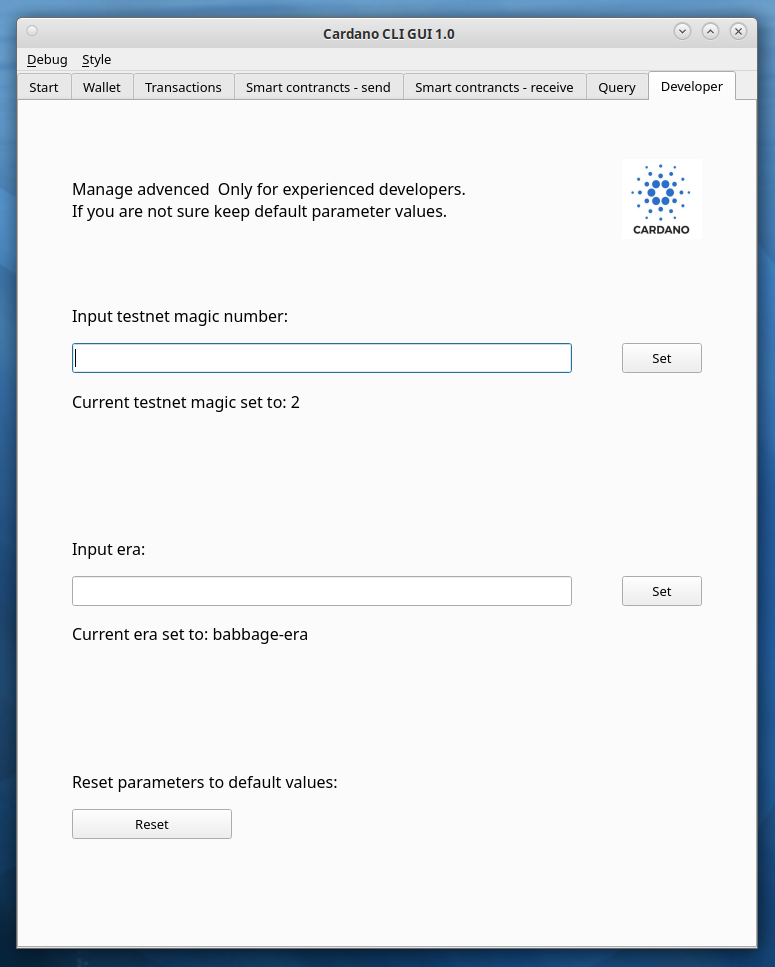
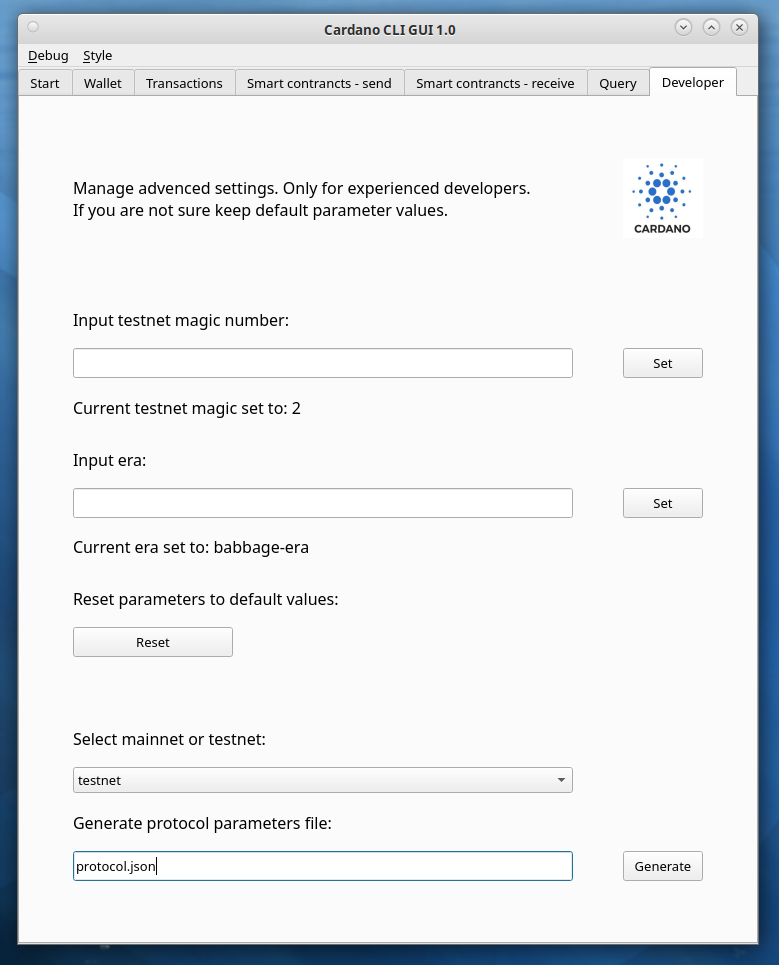
Updating developer py file and image.

diff --git a/py-files/developer.py b/py-files/developer.py
@@ -1,19 +1,26 @@
 
 
+import os
 import settings
+import subprocess
+import traceback
+import common_functions
 
 from PyQt5.QtGui import QPixmap
 from PyQt5.QtWidgets import (QPushButton, QLabel, QLineEdit, 
-                             QWidget, QGridLayout, QMessageBox)
+                             QWidget, QGridLayout, QMessageBox,
+                             QComboBox)
 
 # Widgets and functions for the developer tab
 class Developer(QWidget):
     def __init__(self):
         super().__init__()
 
+        self.net = ""
+
         # Header text 
-        label_1_0 = QLabel("Manage advenced settings. Only for experienced developers.\n" + \
-                           "If you are not sure keep default parameter values.")
+        self.label_1_0 = QLabel("Manage advenced settings. Only for experienced developers.\n" + \
+                                "If you are not sure keep default parameter values.")
 
         # Cardano picture
         picture_1_1 = QLabel("")
@@ -22,30 +29,42 @@ class Developer(QWidget):
         picture_1_1.setScaledContents(True)
 
         # Widgets for testnet magic section 
-        label_3_0 = QLabel("Input testnet magic number:")
+        self.label_3_0 = QLabel("Input testnet magic number:")
         self.input_4_0 = QLineEdit()
-        button_4_1 = QPushButton("Set")
+        self.button_4_1 = QPushButton("Set")
         self.label_5_0 = QLabel("Current testnet magic set to: " + settings.testnet_magic)
 
         # Widgets for era section
-        label_8_0 = QLabel("Input era:")
-        self.input_9_0 = QLineEdit()
-        button_9_1 = QPushButton("Set")
-        self.label_10_0 = QLabel("Current era set to: " + settings.current_era)
+        self.label_6_0 = QLabel("Input era:")
+        self.input_7_0 = QLineEdit()
+        self.button_7_1 = QPushButton("Set")
+        self.label_8_0 = QLabel("Current era set to: " + settings.current_era)
 
         # Widgets for default value section
-        label_13_0 = QLabel("Reset parameters to default values:")
-        button_14_0 = QPushButton("Reset")
+        self.label_9_0 = QLabel("Reset parameters to default values:")
+        self.button_10_0 = QPushButton("Reset")
 
-        # Button functions
-        button_4_1.clicked.connect(self.set_magic)
-        button_9_1.clicked.connect(self.set_era)
-        button_14_0.clicked.connect(self.reset_values)
+        # Widgets for generating protocol parameters file
+        self.label_12_0 = QLabel("Select mainnet or testnet:")
+        self.comboBox_13_0 = QComboBox()
+        self.label_14_0 = QLabel("Generate protocol parameters file:")
+        self.input_15_0 = QLineEdit("")
+        self.button_15_1 = QPushButton("Generate")
+
+        # Button and combobox functions
+        self.button_4_1.clicked.connect(self.set_magic)
+        self.button_7_1.clicked.connect(self.set_era)
+        self.button_10_0.clicked.connect(self.reset_values)
+        self.button_15_1.clicked.connect(self.generate_protocol_params_file)
+
+        self.comboBox_13_0.addItems(["", "mainnet", "testnet"])
+        self.comboBox_13_0.currentTextChanged.connect(self.set_net)
 
         # Set label fonts 
-        labels = [label_1_0, label_3_0, 
-                  self.label_5_0, label_8_0, 
-                  self.label_10_0, label_13_0]
+        labels = [self.label_1_0, self.label_3_0, 
+                  self.label_5_0, self.label_6_0, 
+                  self.label_8_0, self.label_9_0,
+                  self.label_12_0, self.label_14_0]
         for label in labels:
             font = label.font()
             font.setPointSize(12)
@@ -53,12 +72,14 @@ class Developer(QWidget):
 
         # Set lineEdit size 
         self.input_4_0.setFixedSize(500,30)
-        self.input_9_0.setFixedSize(500,30)
+        self.input_7_0.setFixedSize(500,30)
+        self.input_15_0.setFixedSize(500,30)
 
         # Set button size 
-        button_4_1.setFixedSize(80,30)
-        button_9_1.setFixedSize(80,30)
-        button_14_0.setFixedSize(160,30)
+        self.button_4_1.setFixedSize(80,30)
+        self.button_7_1.setFixedSize(80,30)
+        self.button_10_0.setFixedSize(160,30)
+        self.button_15_1.setFixedSize(80,30)
 
         # Space between the sections
         emptyLabel = QLabel()
@@ -66,26 +87,26 @@ class Developer(QWidget):
         # Layouts 
         layout = QGridLayout()
         layout.addWidget(emptyLabel, 0, 0)
-        layout.addWidget(label_1_0, 1, 0)
+        layout.addWidget(self.label_1_0, 1, 0)
         layout.addWidget(picture_1_1, 1, 1)
         layout.addWidget(emptyLabel, 2, 0)
-        layout.addWidget(label_3_0, 3, 0)
+        layout.addWidget(self.label_3_0, 3, 0)
         layout.addWidget(self.input_4_0, 4, 0)
-        layout.addWidget(button_4_1, 4, 1)
+        layout.addWidget(self.button_4_1, 4, 1)
         layout.addWidget(self.label_5_0, 5, 0)
-        layout.addWidget(emptyLabel, 6, 0)
-        layout.addWidget(emptyLabel, 7, 0)
-        layout.addWidget(label_8_0, 8, 0)
-        layout.addWidget(self.input_9_0, 9, 0)
-        layout.addWidget(button_9_1, 9, 1)
-        layout.addWidget(self.label_10_0, 10, 0)
+        layout.addWidget(self.label_6_0, 6, 0)
+        layout.addWidget(self.input_7_0, 7, 0)
+        layout.addWidget(self.button_7_1, 7, 1)
+        layout.addWidget(self.label_8_0, 8, 0)
+        layout.addWidget(self.label_9_0, 9, 0)
+        layout.addWidget(self.button_10_0, 10, 0)
         layout.addWidget(emptyLabel, 11, 0)
-        layout.addWidget(emptyLabel, 12, 0)
-        layout.addWidget(label_13_0, 13, 0)
-        layout.addWidget(button_14_0, 14, 0)
-        layout.addWidget(emptyLabel, 15, 0)
+        layout.addWidget(self.label_12_0, 12, 0)
+        layout.addWidget(self.comboBox_13_0, 13, 0)
+        layout.addWidget(self.label_14_0, 14, 0)
+        layout.addWidget(self.input_15_0, 15, 0)
+        layout.addWidget(self.button_15_1, 15, 1)
         layout.addWidget(emptyLabel, 16, 0)
-
         self.setLayout(layout)
 
     # Functions for setting global variables
@@ -103,14 +124,14 @@ class Developer(QWidget):
         
 
     def set_era(self):
-        input_era = self.input_9_0.text()
+        input_era = self.input_7_0.text()
         if input_era == "":
             msg = "Era can not be an empty string."        
             QMessageBox.warning(self, "Notification:", msg,
                                 QMessageBox.Close)
         else:
             settings.current_era = input_era
-            self.label_10_0.setText("Current era set to: " + settings.current_era) 
+            self.label_8_0.setText("Current era set to: " + settings.current_era) 
             msg = "Era successfully set."  
             QMessageBox.information(self, "Notification:", msg) 
 
@@ -120,8 +141,63 @@ class Developer(QWidget):
         self.label_5_0.setText("Current testnet magic set to: " + settings.testnet_magic)
         
         settings.current_era = "babbage-era"
-        self.input_9_0.setText("")
-        self.label_10_0.setText("Current era set to: " + settings.current_era)   
+        self.input_7_0.setText("")
+        self.label_8_0.setText("Current era set to: " + settings.current_era)   
 
         msg = "Default values successfully restored."  
-        QMessageBox.information(self, "Notification:", msg)   
+        QMessageBox.information(self, "Notification:", msg) 
+
+    def set_net(self, selected_net):
+        self.net = selected_net 
+
+    def generate_protocol_params_file(self):
+        if self.net == "":
+            msg = "Select option mainnet or testnet."    
+            QMessageBox.warning(self, "Notification:", msg,
+                                QMessageBox.Close)
+            return None
+
+        if self.net == "mainnet": 
+            net_part =  "--mainnet "
+        elif self.net == "testnet":
+            net_part = "--testnet-magic " + settings.testnet_magic + " "
+        
+        file_number_count = 0
+        while(True):
+            if file_number_count == 0:
+                prepend_num = ""
+            else:
+                prepend_num = str(file_number_count)
+            
+            pp_file_name = "protocol" + prepend_num + ".json"
+            pp_file_path = settings.folder_path + "/" + pp_file_name
+            pp_file_exists = os.path.isfile(pp_file_path)
+            
+            if not pp_file_exists:
+                self.pp_file_name = pp_file_name
+                break
+
+            file_number_count += 1
+
+        command = "cardano-cli query protocol-parameters " + \
+                  net_part + \
+                  "--out-file " + self.pp_file_name 
+
+        if settings.debug_mode:
+            print("Command below is defined in py-files/developer.py line 182:")
+            print(common_functions.format_command(command) + "\n")
+        else:
+            try:
+                subprocess.Popen(command.split(), cwd=settings.folder_path) 
+                self.input_15_0.setText(self.pp_file_name)
+                msg = "Protocol parameters file successfully generated." 
+                QMessageBox.information(self, "Notification:", msg)
+            except Exception:
+                output = traceback.format_exc()
+                common_functions.log_error_msg(output)
+                
+                msg = "Protocol parameters file could not be generated.\n" + \
+                      "Check if cardano node is running and is synced.\n" + \
+                      "Look at the error.log file for error output." 
+                QMessageBox.warning(self, "Notification:", msg,
+                                    QMessageBox.Close)  
